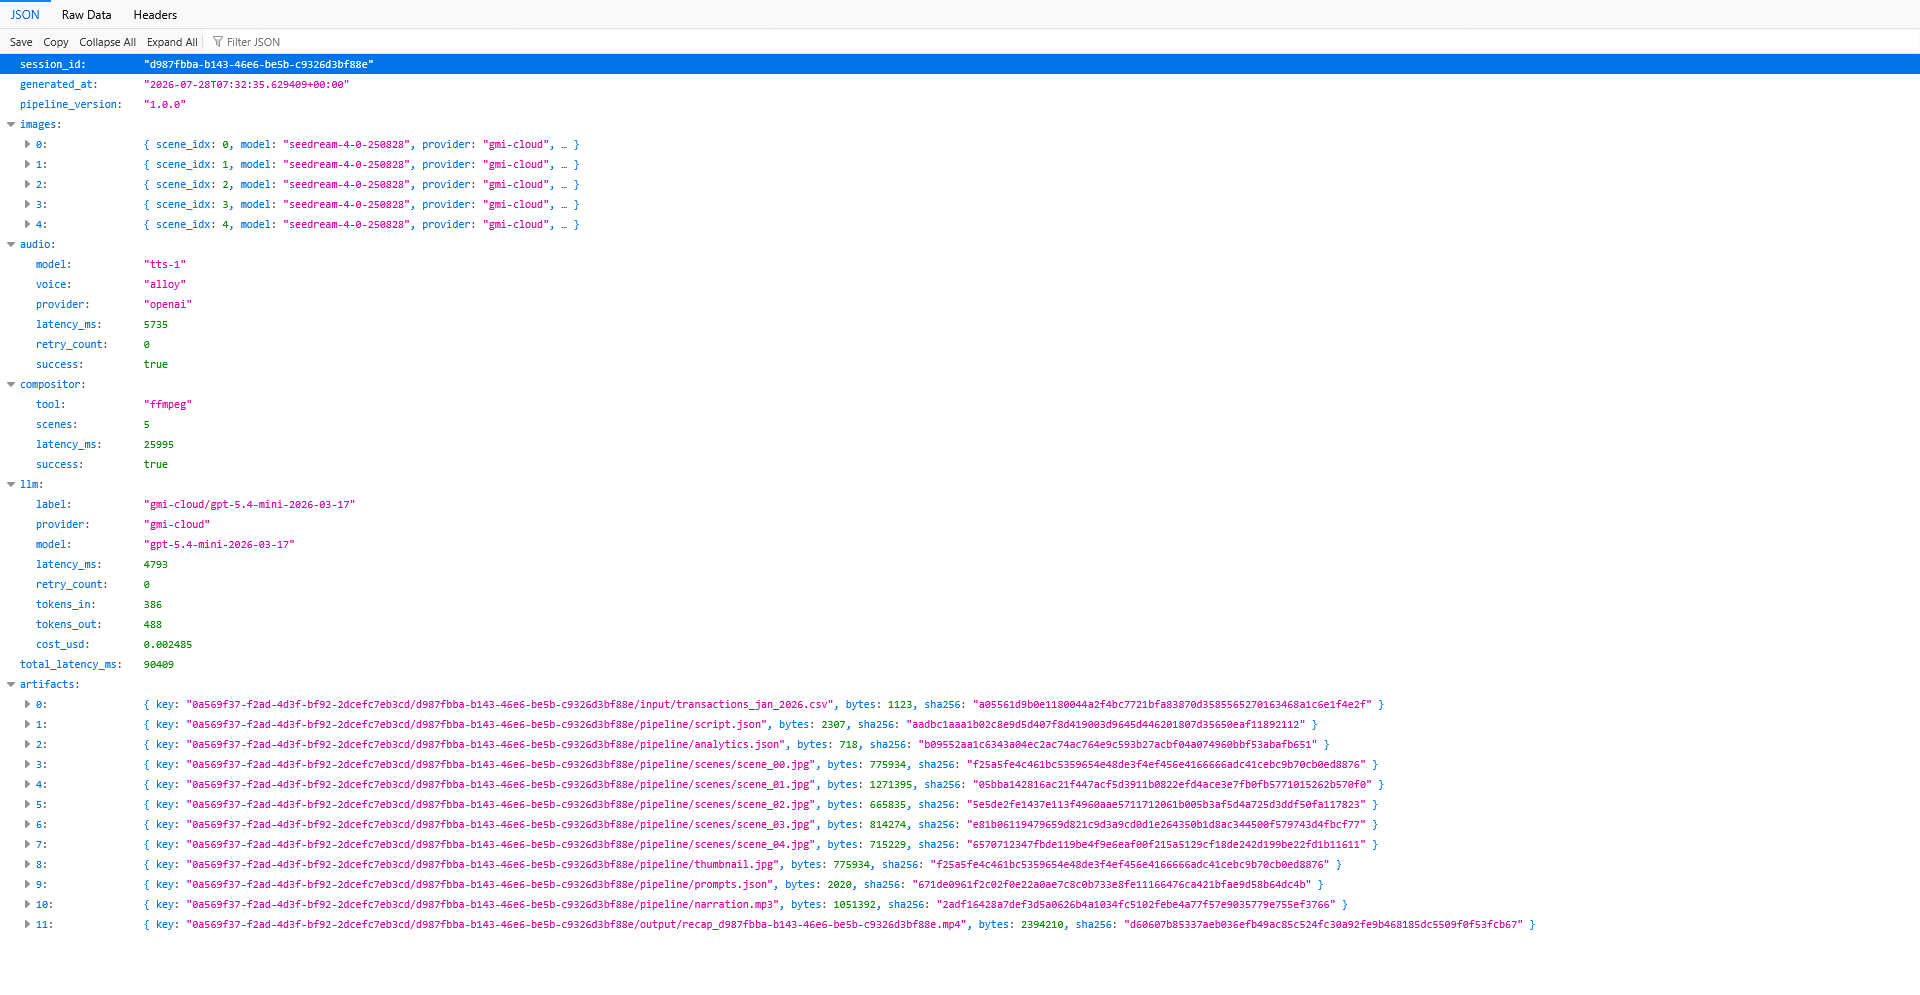
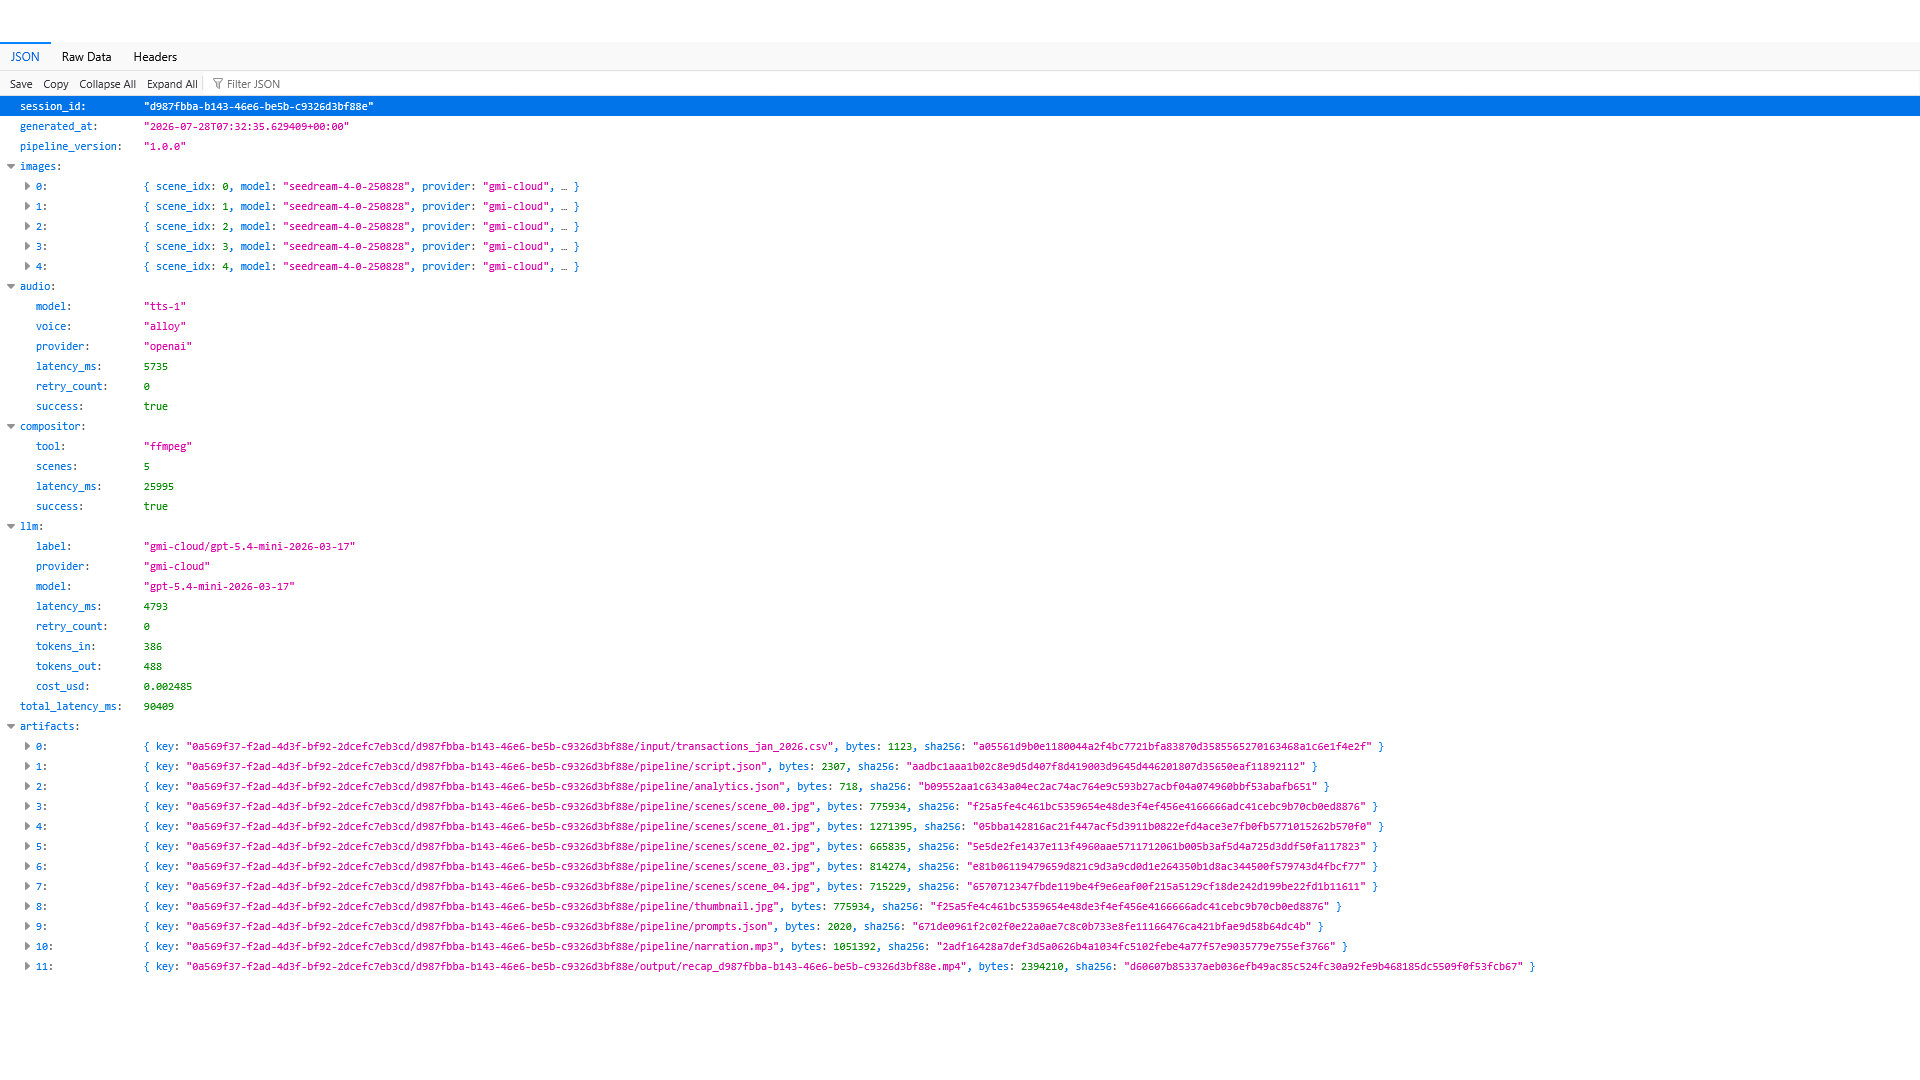
assets: pre-letterbox the non-16:9 demo stills to frame size
Two of the twelve timeline assets were not 1920x1080, which would have left
either black bars or an editor-config step between them and the rest of the cut.

- architecture-diagram-{dark,light}-16x9.png: the source is 2352x450 (5.23:1),
  so it is now padded to 1920x1080 using its own background colour (#0A0A0F /
  #EEF0F7). The diagram fills the middle third of the frame - the ceiling for a
  strip this wide, since the 450px source would go soft scaled to fill height.
- s07-evidence-json.png was 1920x995; padded to 1080 with #FFFFFF, matching the
  JSON viewer's own content background so the seam is invisible.

Every other still is already exact 16:9 and drops in unchanged.

diff --git a/submission/DEMO_SCRIPT.md b/submission/DEMO_SCRIPT.md
@@ -48,7 +48,7 @@ The mic is never used — narration is pre-generated, you never speak. System au
 
 ## Step 0 — one-time prep, before recording anything
 
-1. **Architecture diagram**: already built and ready at [`assets/architecture/`](../assets/architecture/) — `architecture-diagram-{dark,light}.png`, brand-themed (no GitHub screenshot needed). Used **exactly once**, in the editor, at beat 6 — you never show this diagram live in either OBS recording. Note it is **2352×450**, a wide strip rather than 16:9: fit it to the frame *width* and hold it static (see Motion direction for why it must not be zoomed).
+1. **Architecture diagram**: use **`architecture-diagram-{dark,light}-16x9.png`** in [`assets/architecture/`](../assets/architecture/) — pre-letterboxed to exactly 1920×1080 with the diagram's own background colour (`#0A0A0F` dark / `#EEF0F7` light), so it drops straight onto the timeline with no canvas-background setup and no black bars. Used **exactly once**, at beat 6; never shown live in either OBS recording. The source `architecture-diagram-{dark,light}.png` is **2352×450** (a 5.23:1 strip) — at frame width the diagram fills the middle third of the picture, which is the ceiling for a diagram this wide. Hold it static; do not zoom (see Motion direction).
 2. **Opening/closing cards**: already built and ready at [`assets/demo-cards/`](../assets/demo-cards/) — `banner-{dark,light}.png` (opening) and `signoff-{dark,light}.png` (closing), exactly 1920×1080. These are inserted directly in the editor as the first/last clips — **do not record them in OBS** (a browser tab around them would show browser chrome).
 3. **Pick one theme and hold it** — dark or light — across the app, the cards, and the diagram. Every committed asset ships in both variants; mixing them mid-video reads as an accident.
 4. **Capture the stills** — see the [Stills](#stills--capture-list) section below. Do this before you open the editor, so assembly is one uninterrupted pass.
@@ -271,7 +271,7 @@ sits on matching colour instead of default black. Then build in this order:
 | 4 | 4 | `s03-app-home` | static |
 | 5 | 5a | **plaid-connect-take.mp4** — Connect-a-bank clicks through login and account list, stopping before "Continue" | native |
 | 5b | 5b | **csv-run-take.mp4** — the CSV path starting the run | native |
-| 6 | 6a | `architecture-diagram-{dark,light}.png` | static, fit to width |
+| 6 | 6a | `architecture-diagram-{dark,light}-16x9.png` | static, drop in as-is (already 1920×1080) |
 | 7 | 6b | **csv-run-take.mp4** — 5–6 short (3–5s) clips of the progress tracker at different moments ("Writing narrative script", "3/5 scenes done", "composing video", "uploading"), skipping the waiting parts | native |
 | 8 | 7 | **csv-run-take.mp4** — the finished recap playing | native |
 | 9 | 8 | `s04` → `s05` → `s06` → `s07` | static ×3 (cross-dissolve between the B2 pair), pan on `s07` |
